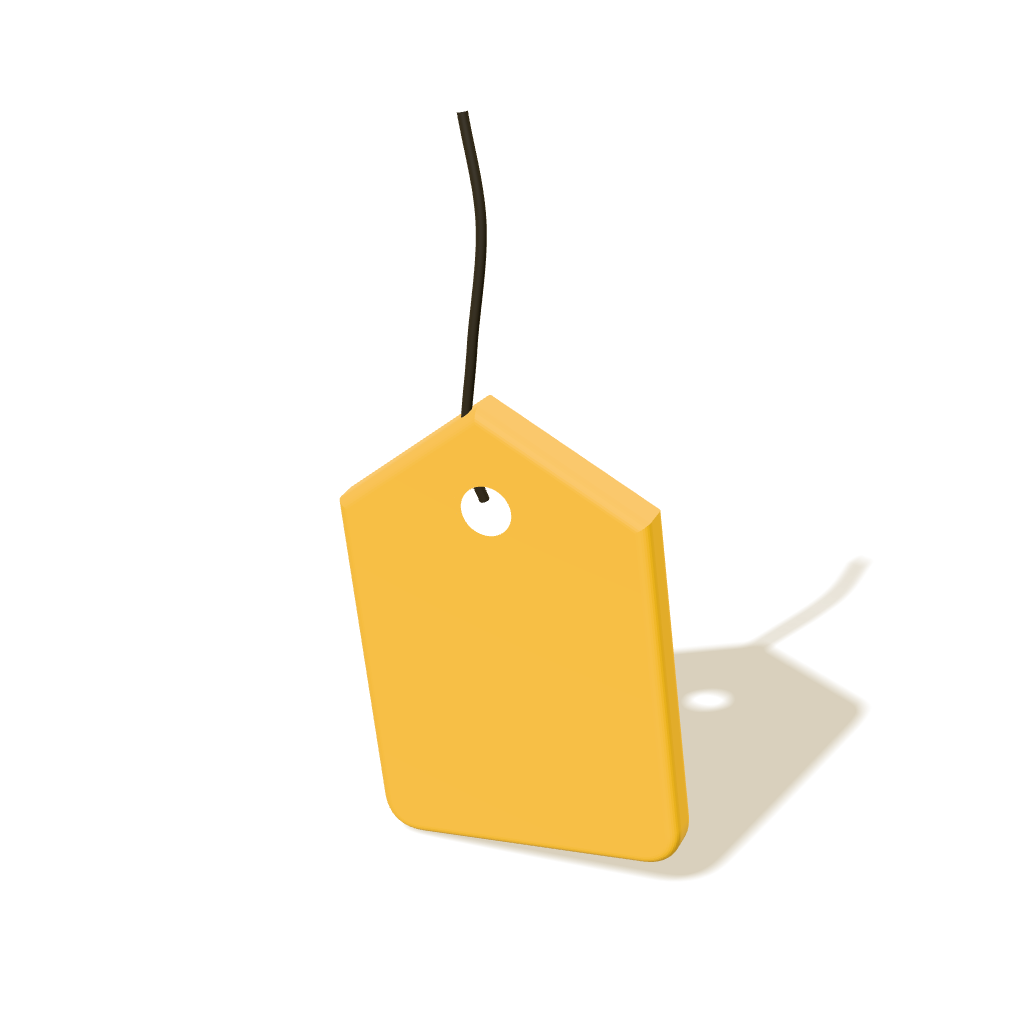
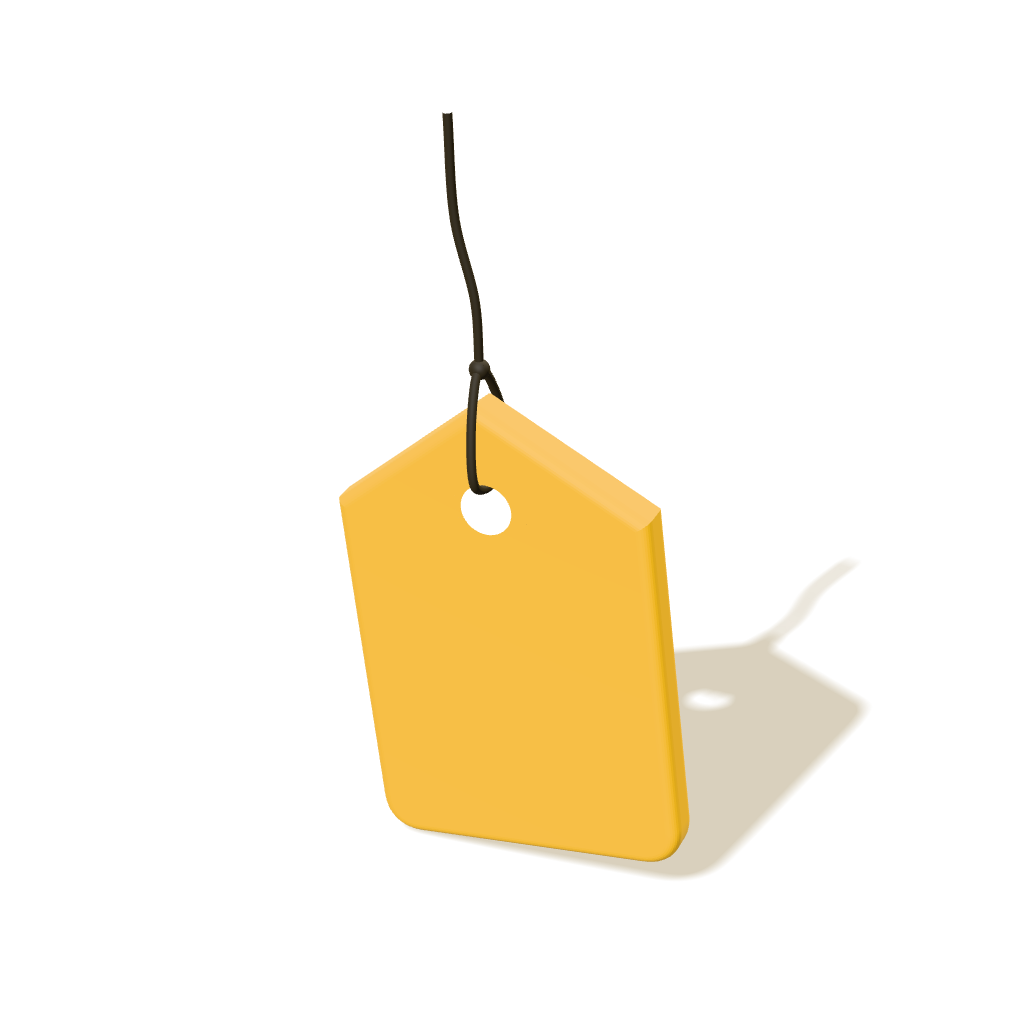
Thread price tag string and ribbon through the hole (A14, I03)
Claude-Session: https://claude.ai/code/session_01Ejz9q7zYs2CvVRMxC4WqZ6

Changed region(s): [[0.4062, 0.0938, 0.5, 0.5], [0.7812, 0.5312, 0.8438, 0.625]]

diff --git a/jdc-cengkareng/clay-lab/factory.html b/jdc-cengkareng/clay-lab/factory.html
@@ -154,7 +154,9 @@ const B={
  A13:()=>{const s=rrShape(1.5,.75,.18),h=new THREE.Path();h.absarc(-.55,0,.09,0,Math.PI*2,true);s.holes.push(h);return at(ext(s,.06,.04,M.W),0,.4,0,-.25,-.35,.05)},
  A14:()=>{const s=new THREE.Shape();s.moveTo(0,1.15);s.lineTo(.75,.65);s.lineTo(.75,-1.0);s.quadraticCurveTo(.75,-1.15,.6,-1.15);s.lineTo(-.6,-1.15);s.quadraticCurveTo(-.75,-1.15,-.75,-1.0);s.lineTo(-.75,.65);s.closePath();
    const h=new THREE.Path();h.absarc(0,.7,.13,0,Math.PI*2,true);s.holes.push(h);const g=grp(ext(s,.1,.07,M.Y));
-   g.add(tube([V(-.06,.7,.0),V(-.1,.95,.04),V(0,1.5,.05),V(.1,2.1,0),V(.05,2.6,-.05)],.025,M.G));
+   const loop=[V(0,.79,0),V(0,.86,.2),V(0,1.12,.17),V(0,1.36,.03),V(0,1.36,-.03),V(0,1.12,-.17),V(0,.86,-.2)];
+   g.add(tube(loop,.022,M.G,true));g.add(at(sph(.05,M.G),0,1.37,0));
+   g.add(tube([V(0,1.38,0),V(.02,1.7,0),V(-.03,2.1,0),V(0,2.6,0)],.022,M.G));
    return at(g,0,1.3,0,0,-.4,.12)},
  A15:()=>{const ch=1.0,R0=.8;const base=new THREE.Shape();base.absarc(0,0,R0,ch,2*Math.PI-ch,false);base.closePath();
    const seg=new THREE.Shape();seg.absarc(0,0,R0,-ch,ch,false);seg.closePath();
@@ -210,7 +212,11 @@ const B={
    g.add(at(rbox(.07,.42,.04,.03,M.R),0,1.06,.27));g.add(at(rbox(.07,.3,.04,.03,M.R),.1,.86,.27,0,0,-1.2));g.add(at(sph(.06,M.G),0,.9,.28));
    [-1,1].forEach(s=>{g.add(at(sph(.24,M.Yd),s*.45,1.62,0));g.add(at(cyl(.04,.05,.3,M.G),s*.42,.15,0,0,0,s*.4))});g.add(at(rbox(.06,.3,.06,.03,M.G),0,1.75,0));return g},
  I03:()=>{const s=new THREE.Shape();s.moveTo(0,.75);s.lineTo(.5,.42);s.lineTo(.5,-.7);s.lineTo(-.5,-.7);s.lineTo(-.5,.42);s.closePath();const h=new THREE.Path();h.absarc(0,.42,.1,0,Math.PI*2,true);s.holes.push(h);
-   const g=grp(ext(s,.1,.07,M.Y));g.add(at(new THREE.Mesh(new THREE.TorusGeometry(.22,.06,16,48),M.R),0,.62,0,0,.0,.0));g.add(at(new THREE.Mesh(new THREE.TorusGeometry(.18,.06,16,48),M.R),-.28,.86,0,0,0,.6));g.add(at(new THREE.Mesh(new THREE.TorusGeometry(.18,.06,16,48),M.R),.28,.86,0,0,0,-.6));
+   const g=grp(ext(s,.1,.07,M.Y));
+   g.add(tube([V(0,.42,0),V(0,.45,.19),V(0,.66,.18),V(0,.84,.04),V(0,.84,-.04),V(0,.66,-.18),V(0,.45,-.19)],.045,M.R,true));
+   g.add(at(sph(.075,M.R),0,.86,.02));
+   [-1,1].forEach(sd=>{const lp=new THREE.Mesh(new THREE.TorusGeometry(.16,.05,16,48),M.R);lp.scale.set(1.25,.75,1);g.add(at(lp,sd*.22,.93,.02,0,0,sd*.45));
+     g.add(tube([V(0,.86,.05),V(sd*.1,.74,.1),V(sd*.2,.6,.12),V(sd*.24,.5,.1)],.035,M.R))});
    return at(g,0,.95,0,0,-.35,.15)},
  I04:()=>{const g=grp(rbox(1.2,1.6,.1,.12,M.W),at(rbox(.5,.2,.18,.08,M.G),0,.8,.03));[.35,.1,-.15,-.4].forEach(y=>g.add(at(rbox(.8,.08,.03,.04,M.Gy),0,y,.06)));
    g.add(at(rbox(1.5,.26,.05,.02,M.R),0,0,.12,0,0,-.7));return at(g,0,1.0,0,-.15,-.35,0)},

diff --git a/jdc-cengkareng/storyboard.html b/jdc-cengkareng/storyboard.html
@@ -550,7 +550,7 @@ const CODE={
  A08:'Three.js: arch tube merah + bidang laser emissive untuk T3.',
  A12:'Three.js: rounded box + layar berupa tekstur HTML, jadi thread chat bisa live dan bubble keluar dari layar.',
  A13:'Three.js: extrude tag + teks jam dari kode.',
- A14:'Three.js: extrude shape tag + tali tube dengan ayunan pendulum.',
+ A14:'Three.js: tag kuning, tali graphite masuk lewat lubang, diikat simpul lalu naik; bisa berayun pendulum.',
  A15:'Three.js: disc merah dengan deformasi curl di satu sisi.',
  A16:'Three.js: panel rounded box + bar input; rebah domino dengan rotasi engsel bawah.',
  A18:'Three.js: extrude bubble dengan bevel tebal (sudah dites, lihat render).',
@@ -559,7 +559,7 @@ const CODE={
  A23:'Three.js: lathe teardrop merah + titik putih (sudah dites).',
  A24:'Three.js: label melengkung + teks/kontak dari kode.',
  I01:'Three.js: globe kuning dengan garis meridian di atas dudukan, pin merah di puncak.', I02:'Three.js: jam alarm kuning, jarum merah, tanpa angka.',
- I03:'Three.js: tag kuning dengan loop pita merah.', I04:'Three.js: clipboard putih dicoret strip lakban merah.',
+ I03:'Three.js: tag kuning, pita merah masuk lewat lubang dan diikat jadi pita kupu-kupu.', I04:'Three.js: clipboard putih dicoret strip lakban merah.',
  I05:'Three.js: gedung kecil kuning + pin melayang.', I06:'Three.js: bubble putih + tiga titik merah (typing).',
  N01:'Three.js: TextGeometry dari font Archivo (OFL), bevel + miring italic (sudah dites).', N02:'Three.js: sama dengan N01.', N03:'Three.js: sama dengan N01, warna merah.',
  D01:'Three.js: varian A01 dalam 3 ukuran, instanced, melayang di layer FX.',
